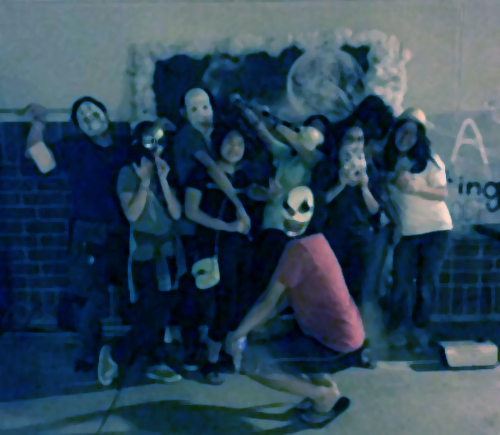
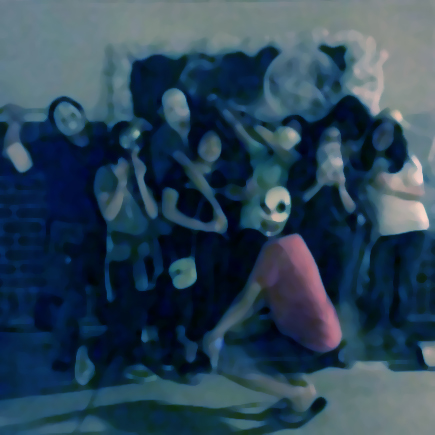
Added Fright2 and Modify Fright size

diff --git a/E.html b/E.html
@@ -11,13 +11,18 @@
         background-size: cover;
         }
     </style>
-    <title>Enter the Haunted House. That is if You're Not Scared</title>
+    <title>Enter the Haunted House</title>
   </head>
   <body>
-<div class="header">Enter the Haunted House. That is if You're Not Scared</div>
+<div class="header">Enter the Haunted House</div>
 <p> Our school's theater students were hosting a haunted house and my friends wanted to go. Because I hate horror films, I was hesitant on going, but when my friends knew I never been inside a haunted house, they kept pursauding for me to come. Eventually, I decided to give in because I knew I wouldn't be going in alone and I wanted to spend time with them since it was our last year. On the day of the event, before we entered, about half of us were nervous (that includes me), so one of our friends had an idea and told us to pair up for emotional stability purposes (aka if one of faints, they aren't left behind). I don't really remember the details of being inside other than being scared enough that I couldn't move without my partner guiding/pushing me to move foward. At the very end though, there was a jump scare at the exit causing my partner to run into a pillar near the exit. After the whole experience, we all got together to take pictures at their photobooth with masks and other some other props. Overall, while it was scary, I was glad to go to experience my first haunted house with them.</p>
 <space>
-<img src="images/Fright.jpg">
+  <div class="container">
+    <img src="images/Fright.jpg" alt="Fright" class="image">
+    <div class="overlay">
+      <img src="images/Fright2.jpg" alt="Fright2" class="image">
+    </div>
+  </div>
 <p><a href="index.html"><p>Home</p></a>
 <a href="M.html"><h2>M</h2></a>
 <a href="I.html"><h2>i</h2></a>
